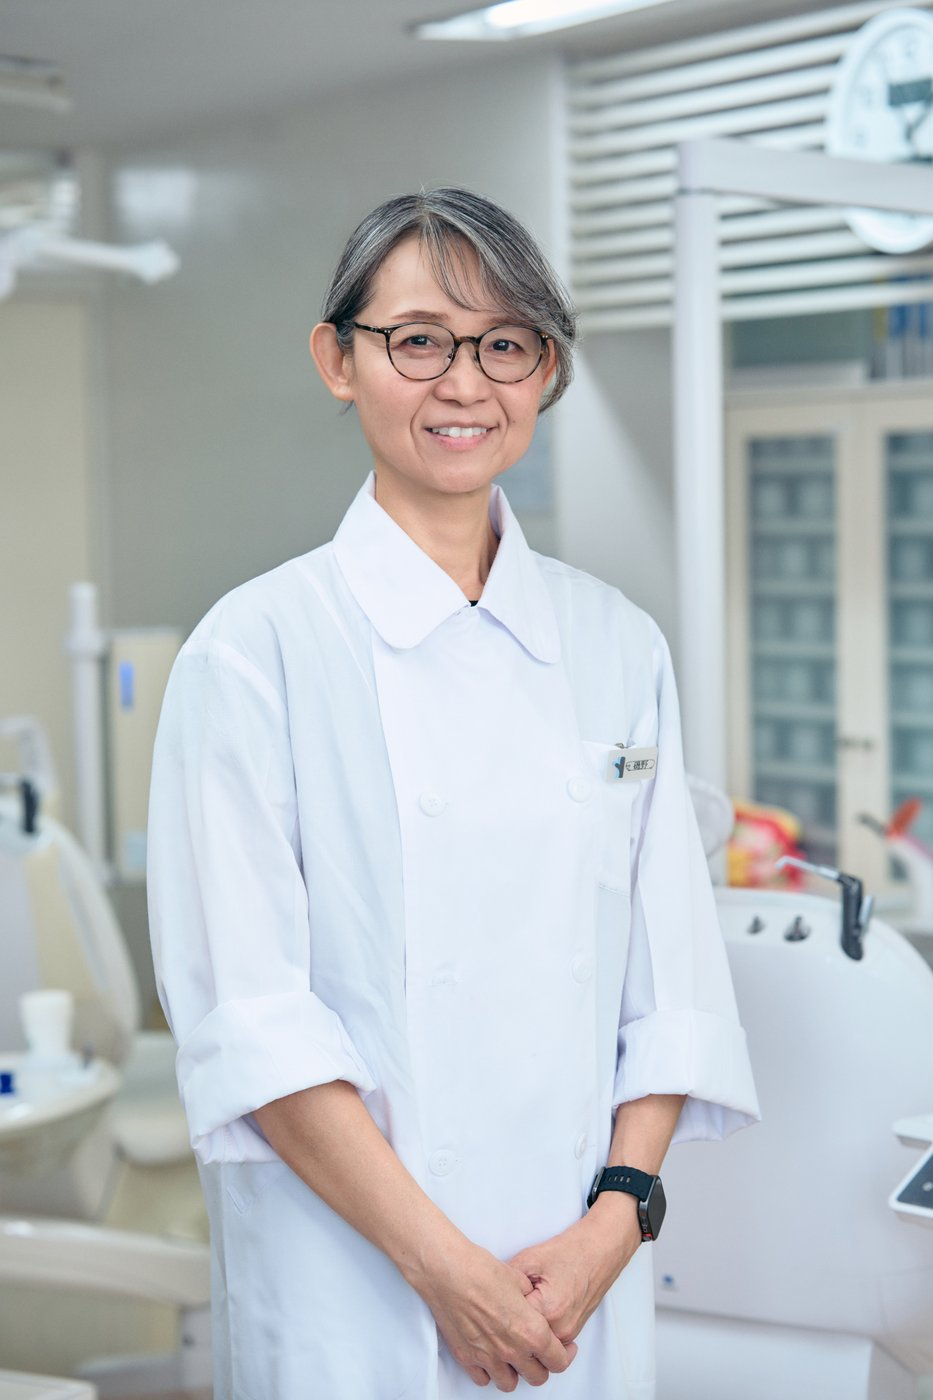
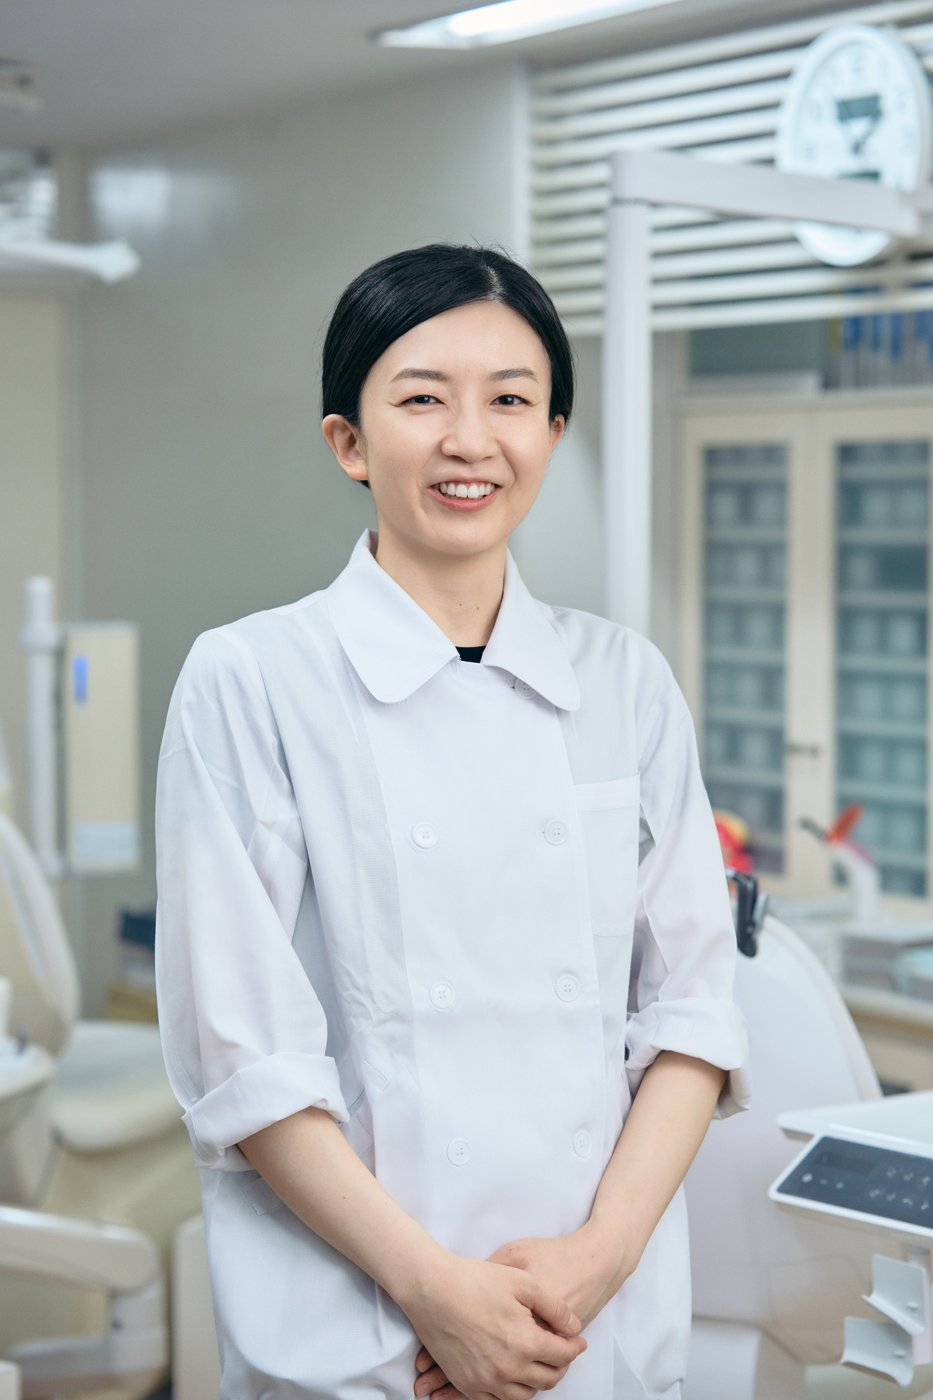
認定医の氏名・写真の対応を修正（藤澤靖子先生・磯野先生の取り違え）

diff --git a/src/app/doctor/page.tsx b/src/app/doctor/page.tsx
@@ -78,8 +78,8 @@ const VICE_REGIONAL = [
 ];
 
 const CERTIFIED_DOCTORS = [
+  { name: "藤澤 靖子", en: "Yasuko Fujisawa", title: "日本矯正歯科学会 認定医", src: "/photos/doctor-fujisawa.jpg" },
   { name: "磯野 亜由美", en: "Ayumi Isono", title: "日本矯正歯科学会 認定医", src: "/photos/doctor-isono.jpg" },
-  { name: "藤沢 のぶこ", en: "Nobuko Fujisawa", title: "日本矯正歯科学会 認定医", src: "/photos/doctor-fujisawa.jpg" },
 ];
 
 function List({ items }: { items: string[] }) {
